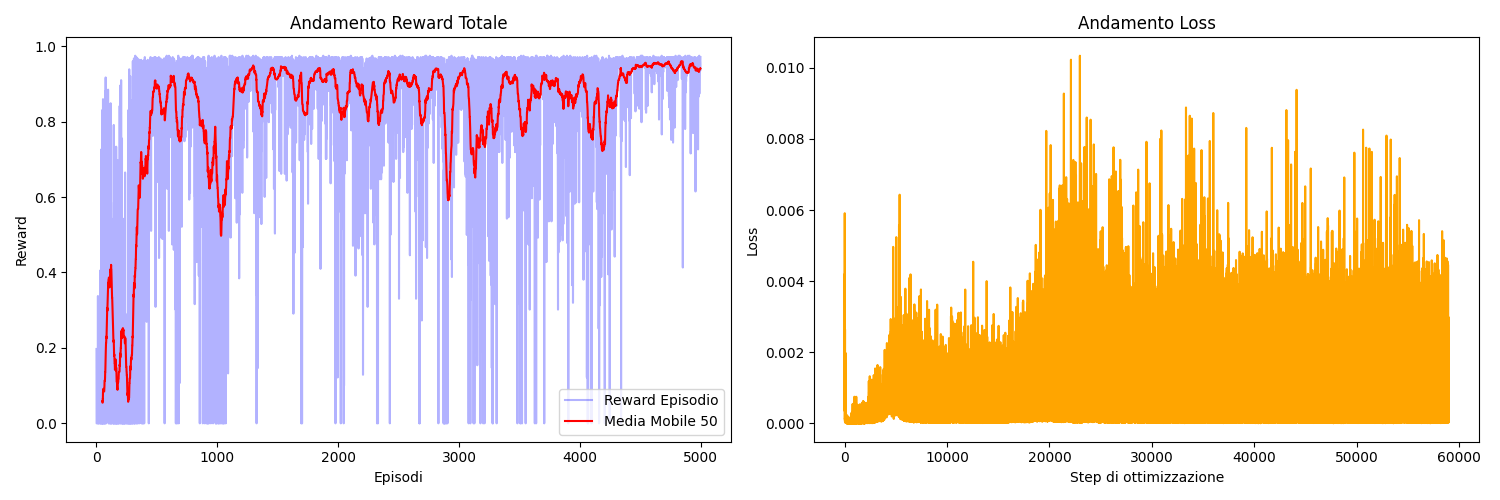
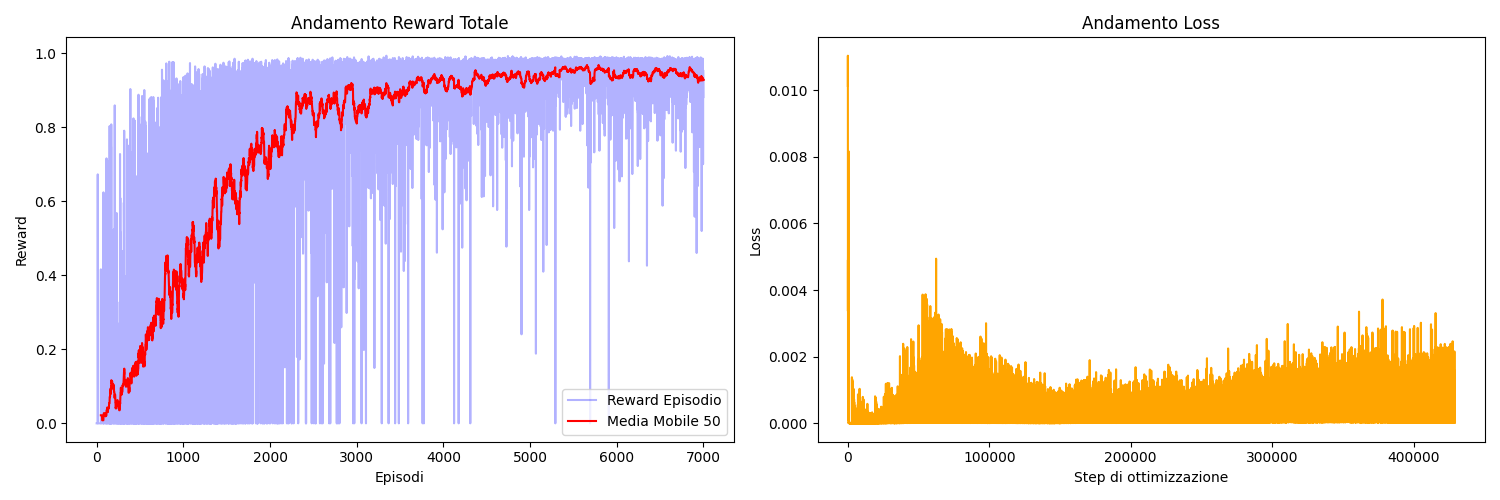
Modifica della nuova implementazione di  double dqn
Ho modificato gli iperparametri della nuova implementazione per ottenere risultati ottimali nell'ambiente DoorKey 8x8 di MiniGrid

diff --git a/dqn-new/train.py b/dqn-new/train.py
@@ -48,17 +48,17 @@ def train():
     state_space = env.observation_space.shape
     print(f"Azioni: {num_actions}, Spazio Osservazioni: {state_space}")
 
-    num_episodes = 5000
-    buffer_size = 50000
-    epsilon_ub = 1.0
-    epsilon_lb = 0.05
-    epsilon_decay = 5000000
-    minibatch_size = 128
-    gamma = 0.99
-    learning_rate = 0.0001
-    update_after = 500
-    train_every = 4
-    target_update_freq = 500
+    num_episodes       = 7000    
+    buffer_size        = 200000   
+    epsilon_ub         = 1.0
+    epsilon_lb         = 0.05
+    epsilon_decay      = 1950000 
+    minibatch_size     = 128
+    gamma              = 0.99
+    learning_rate      = 0.00005
+    update_after       = 2000     
+    train_every        = 4
+    target_update_freq = 2000     
 
     dqn = MlpMinigridPolicy(input_shape=state_space, num_actions=num_actions).to(device)
     dqn_target = MlpMinigridPolicy(input_shape=state_space, num_actions=num_actions).to(device)
@@ -67,8 +67,9 @@ def train():
     optimizer = optim.Adam(dqn.parameters(), lr=learning_rate)
     huber_loss = torch.nn.SmoothL1Loss()
     
+    #cambiata la dimensione
     buffer = ReplayBuffer(num_actions=num_actions, memory_len=buffer_size)
-    success_buffer = ReplayBuffer(num_actions=num_actions, memory_len=20000)
+    success_buffer = ReplayBuffer(num_actions=num_actions, memory_len=buffer_size)
 
     timesteps = 0
     returns_50 = []
@@ -105,9 +106,10 @@ def train():
                 optimizer.zero_grad()
 
                 states_mb, a_mb, reward_mb, next_states_mb, done_mb = buffer.sample_batch(device, minibatch_size)
-
-                if success_buffer.length() > 16:
-                    s_states, s_a, s_reward, s_next, s_done = success_buffer.sample_batch(device, 16)
+                
+                #cambiato il valore dell'if
+                if success_buffer.length() > 8:
+                    s_states, s_a, s_reward, s_next, s_done = success_buffer.sample_batch(device, 8)
                     states_mb = np.concatenate([states_mb, s_states], axis=0)
                     a_mb = torch.cat([a_mb, s_a], dim=0)
                     reward_mb = torch.cat([reward_mb, s_reward], dim=0)

diff --git a/dqn-new/env.py b/dqn-new/env.py
@@ -27,9 +27,9 @@ class MinigridDoorKeyFullyObs(gym.Wrapper):
     def __init__(self, size, render=False):
         env_name = f'MiniGrid-DoorKey-{size}x{size}-v0'
         if render:
-            env = gym.make(env_name, render_mode="human")
+            env = gym.make(env_name, render_mode="human", max_steps=1000)
         else:
-            env = gym.make(env_name)
+            env = gym.make(env_name,max_steps = 1000)
             
         env = FullyObsWrapper(env)
         env = ImgObsWrapper(env)

diff --git a/dqn-new/test.py b/dqn-new/test.py
@@ -65,7 +65,7 @@ def test_model(model_path, grid_size, num_episodes):
     env.close()
 
 if __name__ == "__main__":
-    NOME_FILE_MODELLO = "doorkey_fullyobs_model_20260416_134516.pth" 
+    NOME_FILE_MODELLO = "8-8x8(nuovi parametri).pth" 
     
     GRID_SIZE = 8
     EPISODI_DI_TEST = 20